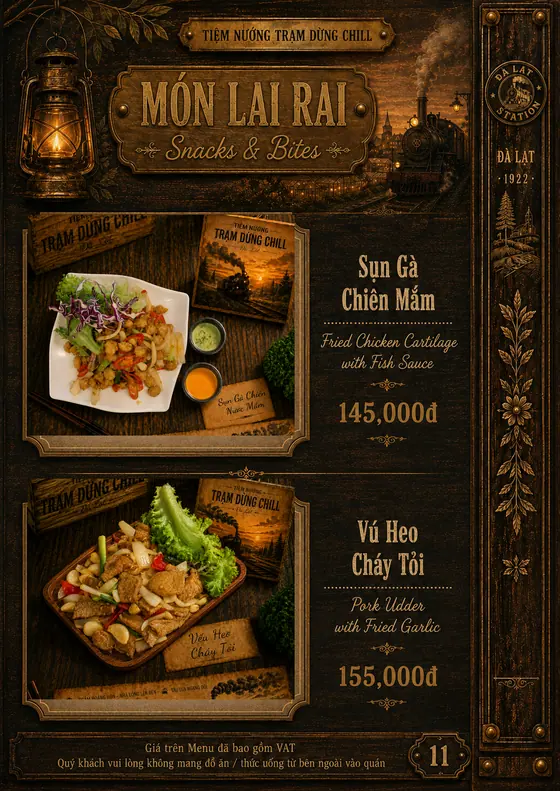
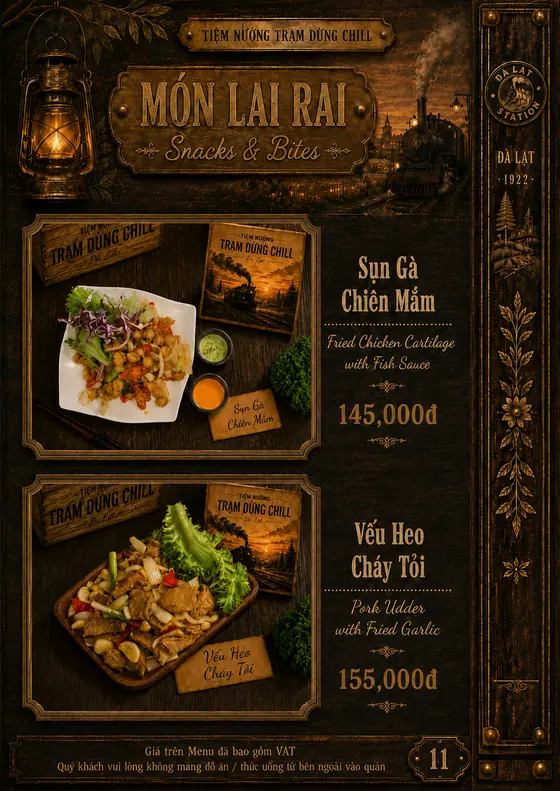
feat(menu): trang lai rai ban 19:53 — chinh ta sach, doi ten thanh "Veu Heo Chay Toi"
Ban nay dung ca hai dong chan trang, thu ma hai ban truoc thay nhau lam hong:
  "Gia tren Menu da bao gom VAT"
  "Quy khach vui long khong mang do an / thuc uong tu ben ngoai vao quan"

Kem theo mot thay doi ten mon: tieu de o thu hai gio la "VEU Heo Chay Toi" thay
vi "Vu Heo Chay Toi". Doi menu-data.js va alt trong menu-pages.js theo cho khop
— quan von dung tu "Veu Heo" o ca hai trang best seller (Veu Heo Uop Sate, Veu
Heo Uop Chao) va tren the go trong chinh anh mon, chi rieng dong tieu de truoc
day ghi "Vu Heo". Nay ca ba mon dung mot cach goi.

Ten file anh van giu slug cu (…-vu-heo-chay-toi) — doi slug la doi URL anh,
mat het van tay va lich su Google Images da index, khong bo lai duoc gi.

seo-geo-verify: 32/32 PASS · check-facts: SACH

diff --git a/menu.html b/menu.html
@@ -542,7 +542,7 @@
                 },
                 {
                     "@type": "MenuItem",
-                    "name": "Vú Heo Cháy Tỏi",
+                    "name": "Vếu Heo Cháy Tỏi",
                     "offers": {
                         "@type": "Offer",
                         "price": "155000",
@@ -1289,11 +1289,11 @@
                     <figcaption class="flip-page-caption">Trang 11/26 — Món Lai Rai</figcaption>
                 </figure>
                 <figure class="flip-page" data-page="12" data-group="laurai" data-group-label="Món Lai Rai" data-group-i18n="flip.group.snacks">
-                    <img src="assets/menu-pages/menu-quan-nuong-da-lat-12-mon-lai-rai-sun-ga-chien-mam-vu-heo-chay-toi-1000.webp?v=73468ceb"
-                         srcset="assets/menu-pages/menu-quan-nuong-da-lat-12-mon-lai-rai-sun-ga-chien-mam-vu-heo-chay-toi-560.webp?v=1e70cb50 560w, assets/menu-pages/menu-quan-nuong-da-lat-12-mon-lai-rai-sun-ga-chien-mam-vu-heo-chay-toi-1000.webp?v=73468ceb 1000w"
+                    <img src="assets/menu-pages/menu-quan-nuong-da-lat-12-mon-lai-rai-sun-ga-chien-mam-vu-heo-chay-toi-1000.webp?v=e5ca2d12"
+                         srcset="assets/menu-pages/menu-quan-nuong-da-lat-12-mon-lai-rai-sun-ga-chien-mam-vu-heo-chay-toi-560.webp?v=f53d71d4 560w, assets/menu-pages/menu-quan-nuong-da-lat-12-mon-lai-rai-sun-ga-chien-mam-vu-heo-chay-toi-1000.webp?v=e5ca2d12 1000w"
                          sizes="(min-width: 900px) 46vw, 92vw"
                          width="1055" height="1491"
-                         alt="Món lai rai: sụn gà chiên mắm, vú heo cháy tỏi"
+                         alt="Món lai rai: sụn gà chiên mắm, vếu heo cháy tỏi"
                          loading="lazy" decoding="async">
                     <figcaption class="flip-page-caption">Trang 12/26 — Món Lai Rai</figcaption>
                 </figure>
@@ -1499,7 +1499,7 @@
 <li>Xúc Xích Đức Nướng — 20.000đ</li>
 <li>Bò Lúc Lắc — 160.000đ</li>
 <li>Sụn Gà Chiên Mắm — 145.000đ</li>
-<li>Vú Heo Cháy Tỏi — 155.000đ</li>
+<li>Vếu Heo Cháy Tỏi — 155.000đ</li>
 <li>Ếch Chiên Nước Mắm — 155.000đ</li>
 <li>Cánh Gà Chiên Nước Mắm — 145.000đ</li>
 </ul>

diff --git a/data/menu-data.js b/data/menu-data.js
@@ -86,7 +86,7 @@ const MENU_ITEMS = {
         { name: 'Xúc Xích Đức Nướng', price: '20K' },
         { name: 'Bò Lúc Lắc', price: '160K' },
         { name: 'Sụn Gà Chiên Mắm', price: '145K' },
-        { name: 'Vú Heo Cháy Tỏi', price: '155K' },
+        { name: 'Vếu Heo Cháy Tỏi', price: '155K' },
         { name: 'Ếch Chiên Nước Mắm', price: '155K' },
         { name: 'Cánh Gà Chiên Nước Mắm', price: '145K' },
     ],

diff --git a/data/menu-pages.js b/data/menu-pages.js
@@ -114,7 +114,7 @@ var MENU_PAGES = [
         n: 12,
         group: 'laurai',
         slug: 'menu-quan-nuong-da-lat-12-mon-lai-rai-sun-ga-chien-mam-vu-heo-chay-toi',
-        alt: 'Món lai rai: sụn gà chiên mắm, vú heo cháy tỏi'
+        alt: 'Món lai rai: sụn gà chiên mắm, vếu heo cháy tỏi'
     },
     {
         n: 13,
